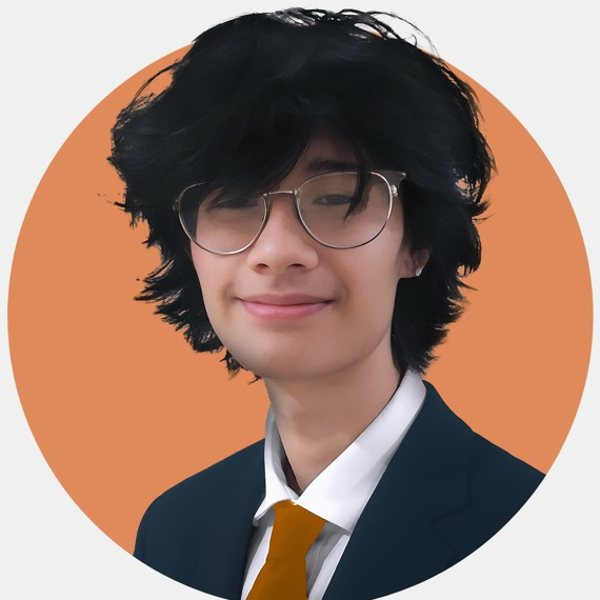
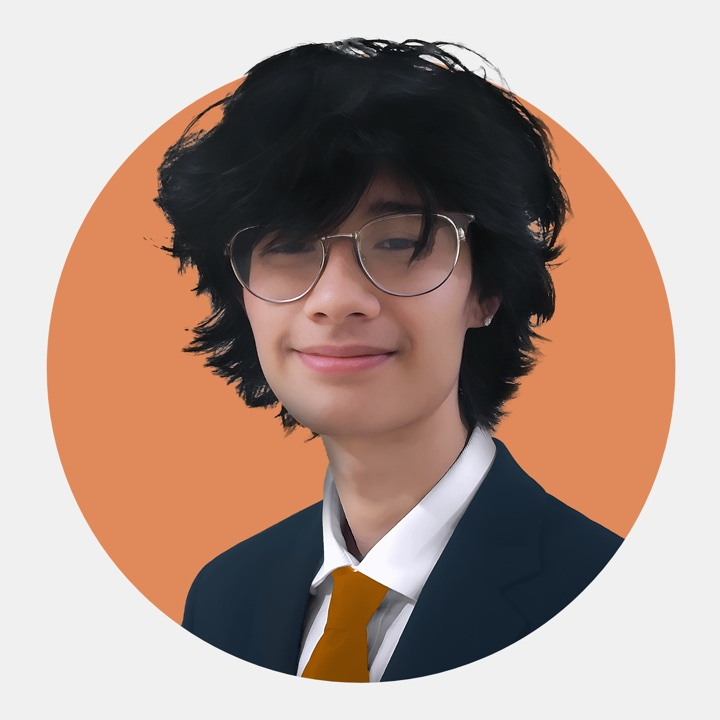
use the new square portrait for jett

diff --git a/index.html b/index.html
@@ -68,7 +68,7 @@
             <figcaption><b>Jack Raney</b><span>The business side</span></figcaption>
           </figure>
           <figure class="person person--b">
-            <img src="assets/jett.jpg" width="600" height="600" alt="Jett Nguyen" />
+            <img src="assets/jett.jpg" width="720" height="720" alt="Jett Nguyen" />
             <figcaption><b>Jett Nguyen</b><span>The tech side</span></figcaption>
           </figure>
         </div>
@@ -167,7 +167,7 @@
             </div>
           </article>
           <article class="bio">
-            <img src="assets/jett.jpg" width="600" height="600" alt="" loading="lazy" />
+            <img src="assets/jett.jpg" width="720" height="720" alt="" loading="lazy" />
             <div>
               <h3>Jett Nguyen</h3>
               <p class="role">The tech side</p>
